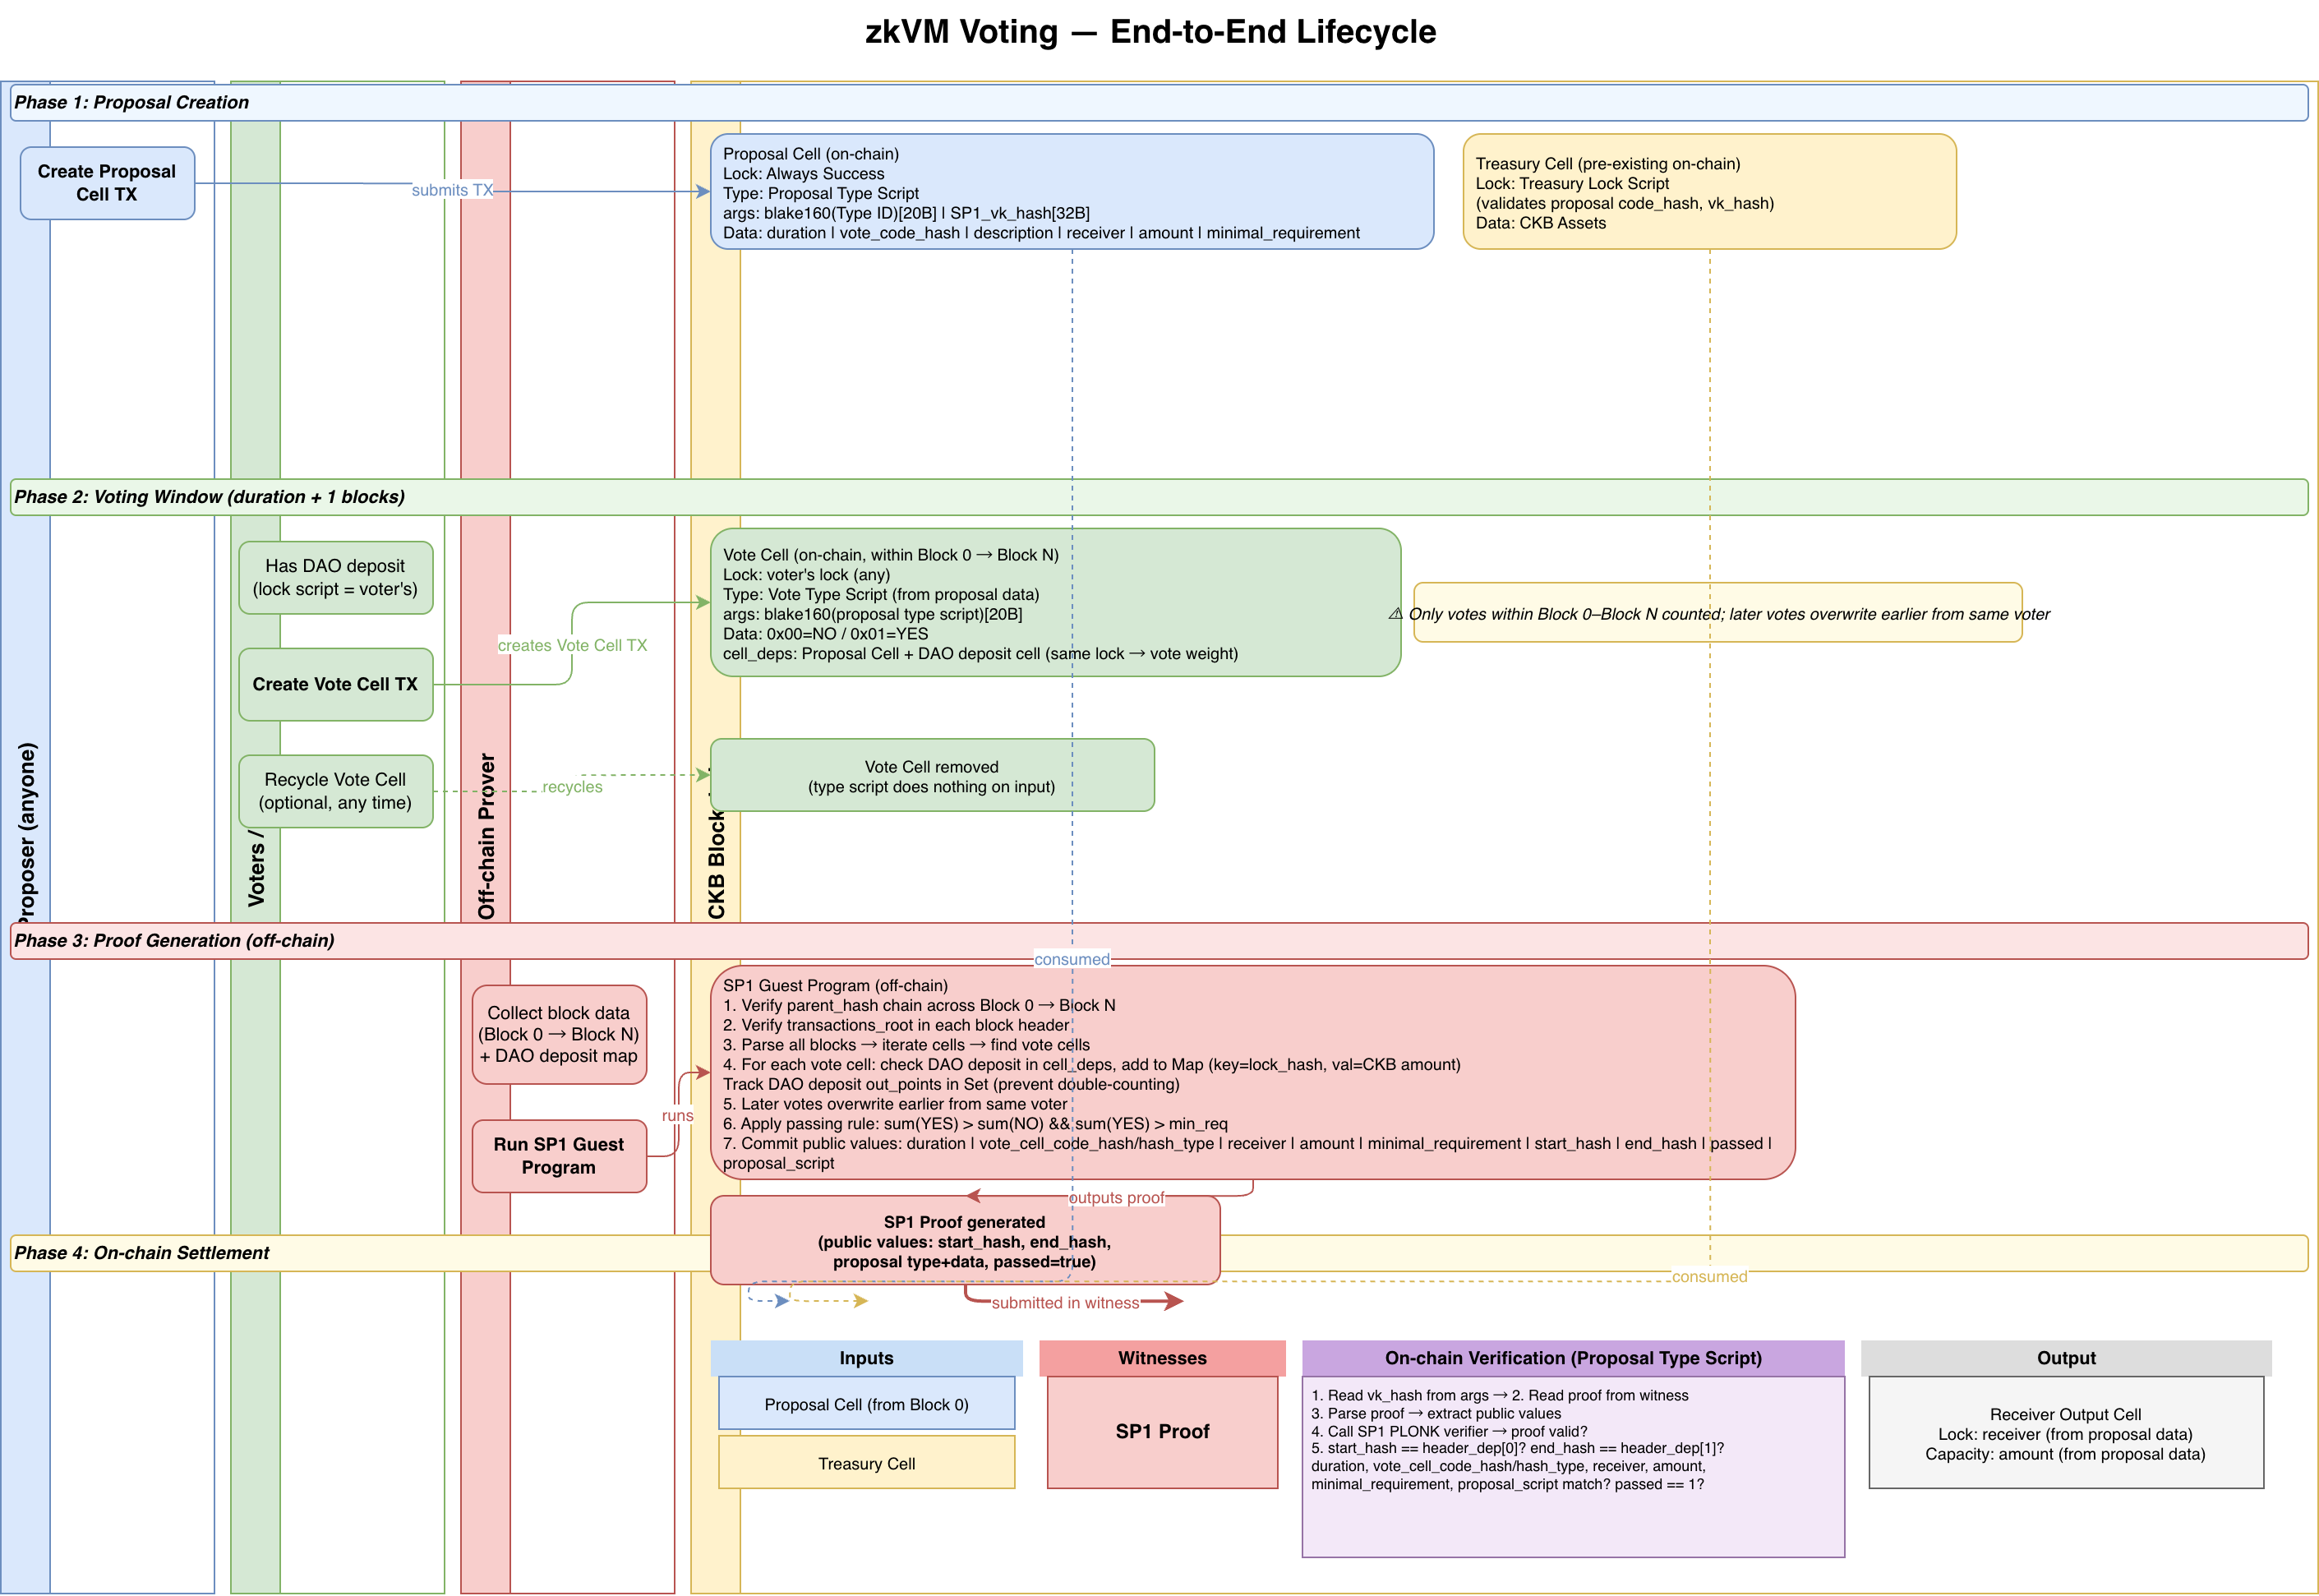
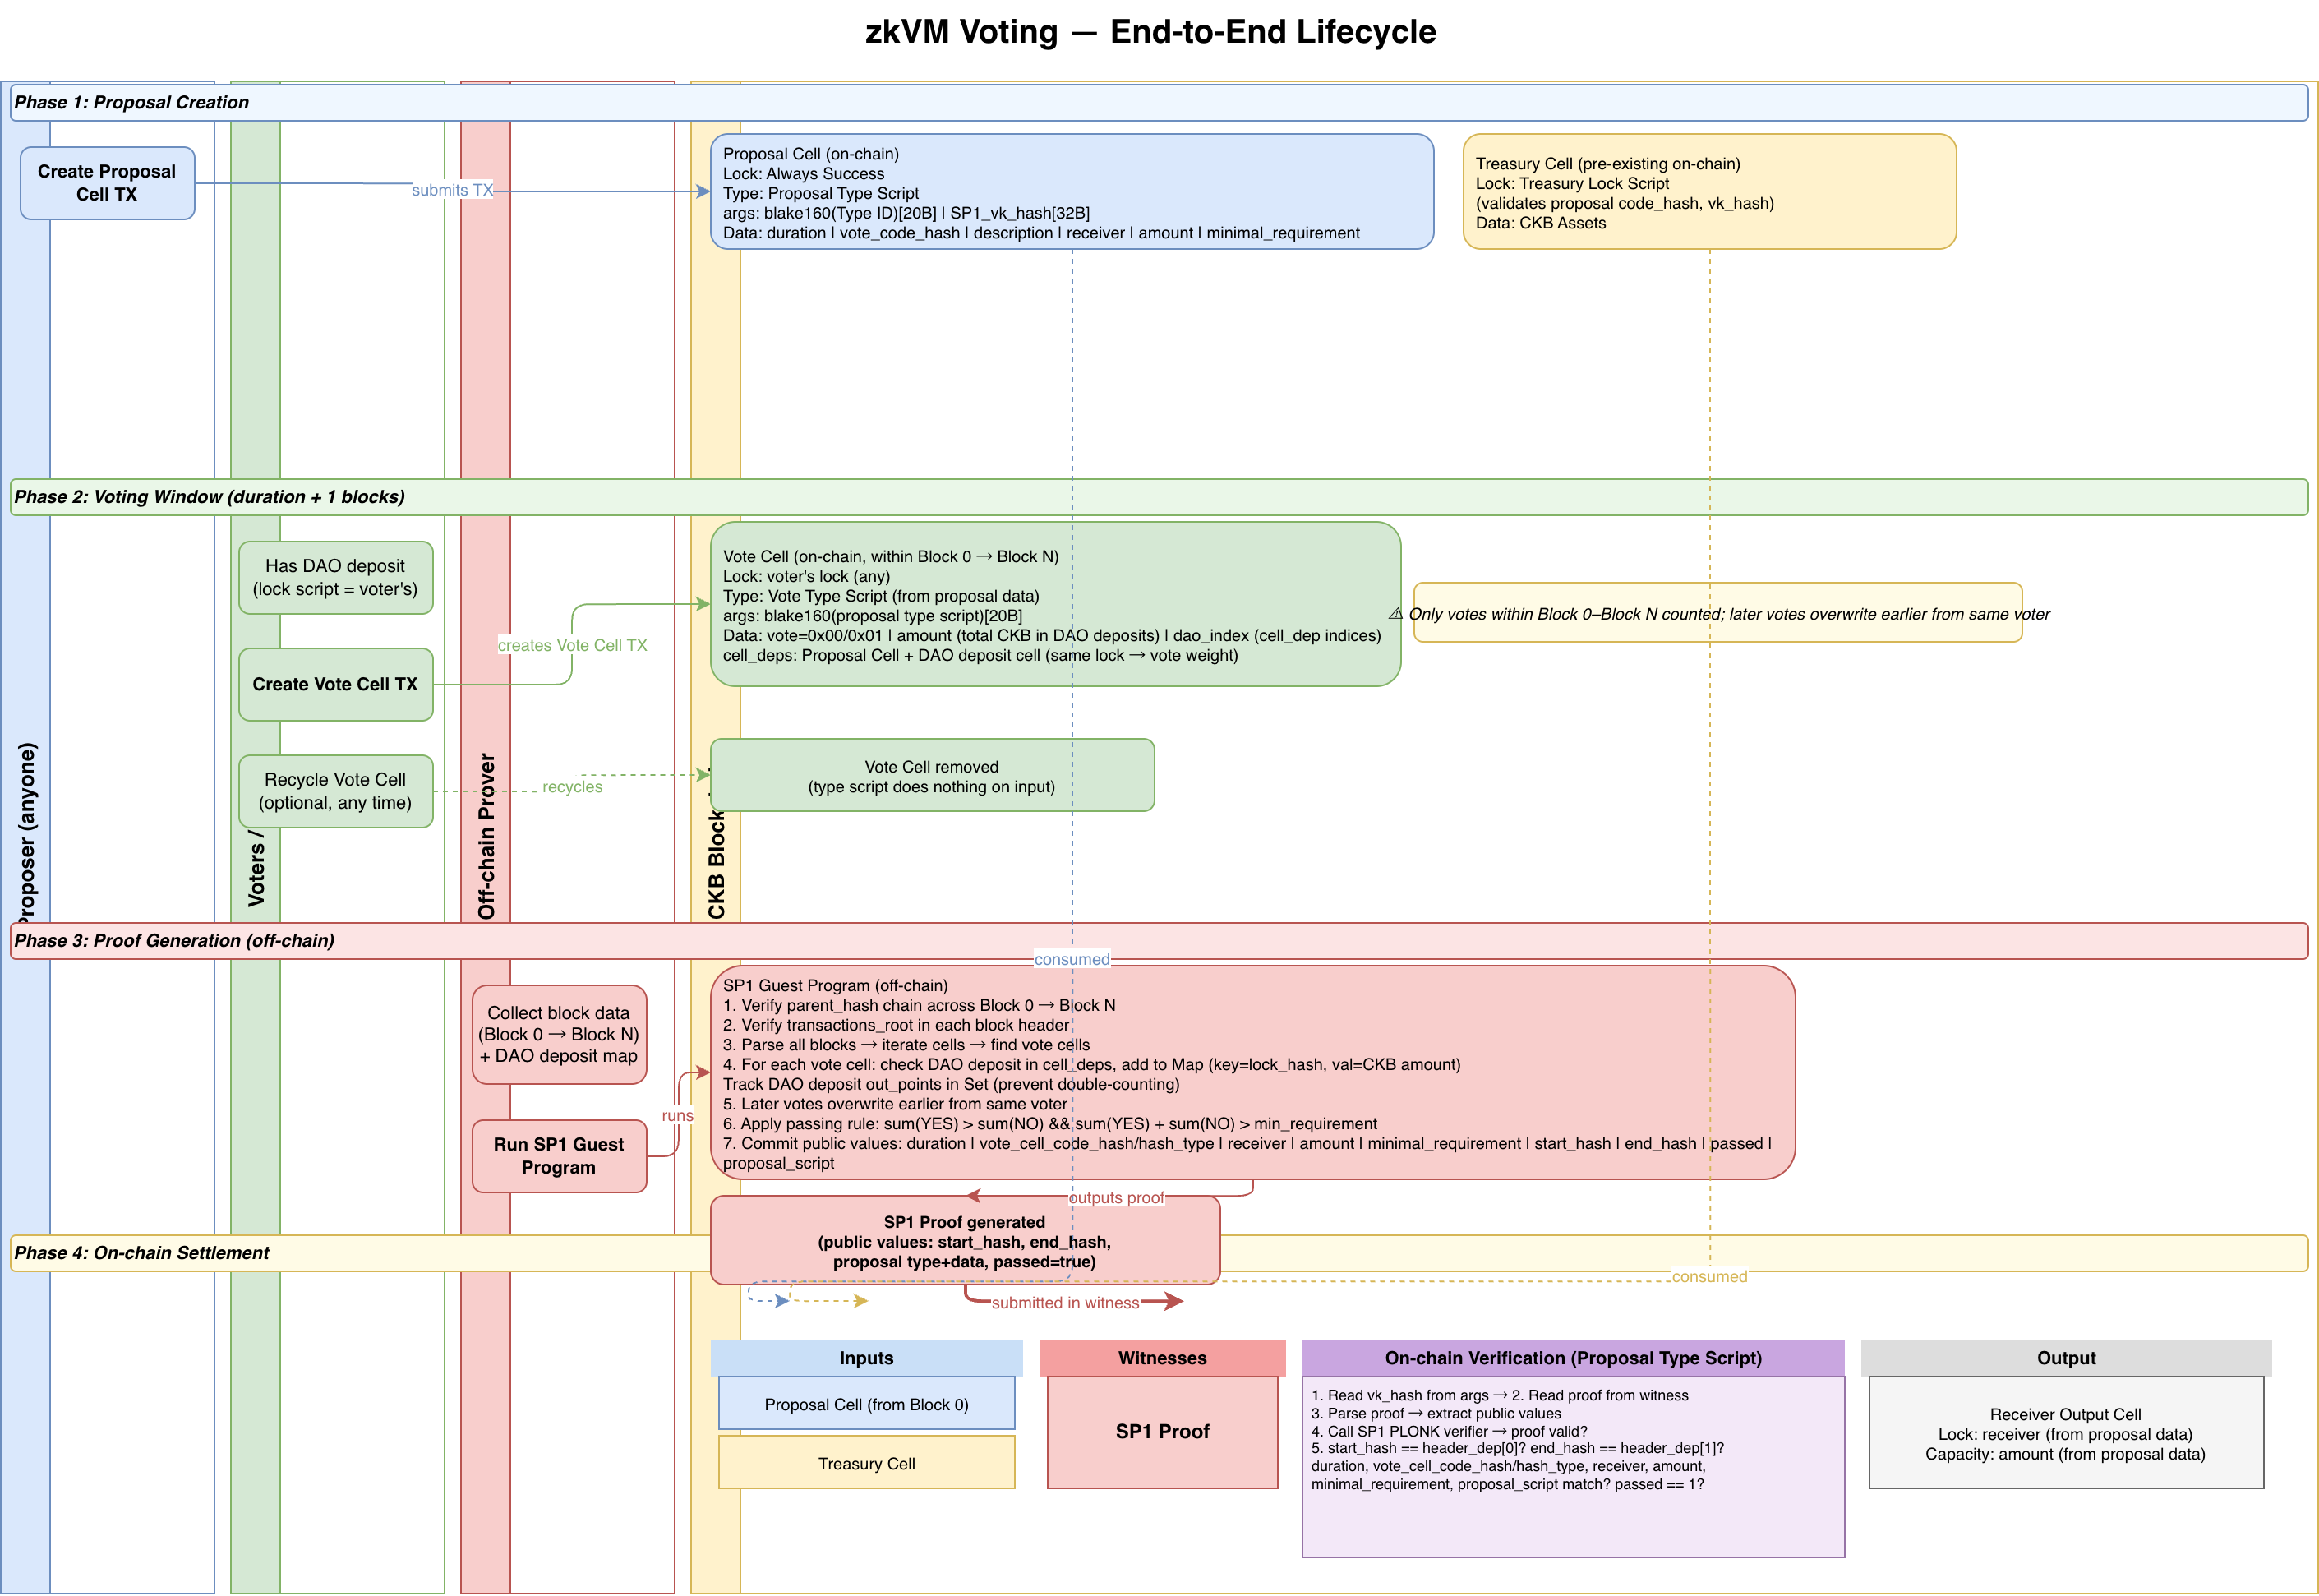
docs: update

Changed region(s): [[0.3118, 0.309, 0.5925, 0.4325], [0.5613, 0.6797, 0.5925, 0.7106], [0.4989, 0.6797, 0.5301, 0.7106]]

diff --git a/docs/design/README.md b/docs/design/README.md
@@ -60,113 +60,29 @@ The type script of a proposal cell is called the proposal type script. Its `args
 <20-byte blake160 hash of previous TX> <32-bytes SP1 verifying key>
 ```
 
-The first 20 bytes ensure uniqueness via the Type ID mechanism (see [Type ID implementation](https://github.com/nervosnetwork/ckb-std/blob/0a16c0ed8a6b4d8194d64420dbe309a0c23fc1b2/src/type_id.rs#L79-L85)).
-The final 32 bytes represent the SP1 verifying key, indicating which SP1 guest program should be used for zkVM proof verification.
-
-It must follow these rules:
-
-* It must be unique across all type scripts. This can be achieved using Type ID.
-* It is referenced by vote cells via its Type ID.
-* It validates the cell data format, described below.
-* If a proposal cell remains on-chain without being destroyed for a long time, it indicates the proposal did not pass. It can be recycled after a specific expiration time.
-* A proposal cell can only be created or destroyed, not updated. 
-* When a proposal cell is destroyed, a zkVM proof must be provided to demonstrate that the vote passed. Only a successful vote permits destruction. The proof is stored in the corresponding witness. This step is described in a separate section (zkVM Verifying Process) and is the most critical part of the design.
-* When the zkVM proof is verified, there must be an output cell with the `amount` and a lock script matching the `receiver`, as described below. This output represents the funds released when the proposal passes.
-
-The proposal cell data format includes the following fields:
-
-1. `duration` (N) in blocks: votes are valid only if cast within N consecutive blocks from the proposal's start. Votes outside this range are not counted. 
-2. `vote cell code_hash / hash_type`: specifies the script a vote cell must use. Cells using a different script are not counted as valid votes.
-3. `description`: a plain-text description of the proposal.
-4. `receiver`: The address that will receive the CKB amount when the proposal passes.
-5. `amount`: The amount of CKB to be received.
-6. `minimal_requirement`: minimum required CKB involved in voting.
-
-Since proposal cells can be created by anyone, the fields `duration`, `vote cell code_hash/hash_type`, `amount`, and `minimal_requirement` should be restricted by the proposal type script.
-
-Other metadata may also be included; only the important fields are listed here.
-
-Design notes and rationale:
-
-* Allowing updates would require revoking old votes, re-voting, and notifying all participants — an impractical workflow. The recommended approach is to abandon the existing proposal and create a new one.
-* Third parties may also utilize this voting system.
+See details in [Proposal Type Script Specification](../proposal-type-script.md).
 
 ## Vote Cell
 
 Once the proposal cell is on-chain, users can cast their votes by creating vote cells. Each vote cell's data contains the vote result — typically a simple yes or no.
 
-The vote cell's lock script can be anything, as users may recycle these cells immediately after voting. In practice, it is recommended to use the same lock script as the input cell.
+The vote cell's lock script can be anything, as users may recycle these cells immediately after voting. 
 
-The vote cell's type script is specified in the proposal cell's data format. This vote type script must follow these rules:
-
-1. The input cell being consumed must be unlocked by a script. This script represents ownership of a DAO deposit.
-2. `cell_deps` must include a reference to the DAO deposit, which must share the same lock script as above. The DAO deposit amount is used as the vote weight.
-3. `args` must contain the blake160 hash of the proposal type script. 
-4. Rules 1–3 apply only when this type script appears in an output cell. When it appears in an input cell, it does nothing — this allows the cell to be recycled.
-
-Design notes and rationale:
-
-1. The type script is not required to validate the proposal cell in full. It only checks that the proposal cell exists. Full validation is handled by the zkVM verifying process.
-2. Vote cells outside the proposal's `duration` range are not counted as valid votes. This is also enforced in the zkVM verifying process.
-3. Vote cells can be recycled immediately, so they do not lock up users' capacity. Users only pay a small amount of CKB as transaction fees.
-4. A "NO" vote is generally unnecessary — users can simply do nothing. However, it can be used to retract a previous "YES" vote, as any "NO" vote overwrites a prior "YES" from the same voter.
-
+See details in [Vote Type Script Specification](../vote-type-script.md).
 
 ## Treasury Cell
 The treasury cell holds assets by default. When a proposal passes, anyone can generate a zkVM proof to unlock the proposal type script.
 The treasury cell is locked by a special treasury lock script, which can be unlocked when the proposal type script in the same transaction is also unlocked.
 The transaction includes treasury cells and a proposal cell, with an output cell using the `receiver` as the lock script — effectively sending funds to the receiver.
 
-The treasury lock script follows these rules:
+The treasury lock script has the following hard-coded or configured parameters:
 
-1. The proposal cell in the same transaction must have a valid `code_hash` / `hash_type`.
-2. The `args` of the proposal cell must be valid:
-   - The verifying key matches.
-   This setting is critical to the voting system. The verifying key defines the shape of the guest program — it must be updated whenever the guest program changes. Allowing this setting to be malformed or overwritten by anyone would be a serious security issue.
+- proposal type script `code_hash` / `hash_type`
+- verifying key of the guest program
 
+These parameters are critical to the voting system. The verifying key is tied to the guest program binary — it must be updated whenever the guest program changes. Allowing these values to be malformed or overwritten would be a serious security issue.
 
-Design notes and rationale:
-
-1. The verifying key can be updated when the guest program changes.
-
-
-## zkVM Verifying Process
-
-This is the most critical part of the design. It consists of two sides: off-chain and on-chain.
-The off-chain side generates the SP1 proof using block data as input. The on-chain side verifies the proof against the real block data.
-
-On the off-chain side, the guest program works as follows:
-
-- The guest program receives, as input arguments, a sequence of block data beginning with the block containing the proposal cell. This sequence consists of exactly `duration + 1` consecutive blocks.
-- It also receives a collection of relevant transactions associated with valid DAO deposits, organized in a map structure, as additional input arguments.
-- The guest program takes last argument as the proposal type script along with its corresponding cell data.
-- It reads the proposal cell from the first block and retrieves the vote cell type script.
-- It verifies that `parent_hash` matches between adjacent blocks.
-- It verifies that the `transactions_root` field in each block matches the expected value according to the [block structure RFC](https://github.com/nervosnetwork/rfcs/blob/master/rfcs/0027-block-structure/0027-block-structure.md). Additional verification steps can be included as needed, but are not detailed here.
-- It parses all blocks in molecule format, reads all transactions, and iterates over all cells.
-- If a cell matches the vote cell type script, it verifies that the corresponding `cell_deps` contain a DAO deposit with the correct lock script. If valid, the vote is counted and stored in a `Map`. Later votes overwrite earlier ones from the same voter.
-- After the final block is processed, a `Map` of voting results is produced. The key is the lock script hash identifying each voter, and the value is the amount of CKB they hold.
-- The passing rule is not yet finalized, but a simple example would be: `sum("YES") > sum("NO") && sum("YES") + sum("NO") > minimal_requirement`.
-- Finally, the guest program commits the following public values and outputs the SP1 proof:
-    * Start block hash
-    * End block hash
-    * Proposal type script and its cell data
-    * Whether the proposal passed
-  These public values are crucial, as the on-chain verifier must independently validate each of them to ensure the integrity of the zkVM proof.
-
-On the on-chain side, the proposal type script verifies the SP1 zkVM proof as follows:
-
-1. Read the `<32-byte SP1 verifying key>` from `args`.
-2. Read the `proof` from the witness.
-3. Parse the `proof` to extract the public values.
-4. Call the SP1 verifier with the arguments above and verify the proof.
-5. Verify that the public values match the on-chain data:
-   - The start block hash must match the first `header_dep`.
-   - The end block hash must match the second `header_dep`.
-   - The proposal type script and its cell data must match.
-   - The proposal passing flag must match.
-
-Note: the start and end block hashes are referenced via `header_dep`. If either hash is invalid, the reference will fail and the transaction cannot be constructed.
+See details in [Treasure Lock Script Specification](../treasure-lock-script.md).
 
 ## Benchmark and Optimization
 

diff --git a/docs/vote-type-script.md b/docs/vote-type-script.md
@@ -13,19 +13,36 @@ Since a proposal type script is unique across the entire chain, there is no ambi
 
 
 ## Cell Data
-One byte data: 0 for "NO" and 1 for "YES".
+
+The cell data uses the following molecule structure:
+```
+table Vote {
+    vote: Byte,
+    amount: Uint64,
+    dao_index: Uint16Vec,
+}
+```
+The `vote` field is a single byte: `0` for "NO" and `1` for "YES".
+The `amount` is the total CKB the owner holds in DAO deposits. The `dao_index` contains the indices into `cell_deps` that point to those DAO deposit cells.
+
 
 ## Witness
 This script doesn't read witness.
 
 ## Unlocking process
 
-When a vote cell is created, the action is treated as casting a vote. The script first checks that a proposal cell — identified by the blake160 hash stored in `args` — exists in `cell_deps`. It is not required to validate the proposal cell in full; it only checks that the proposal cell exists. The script then looks for a lock script on the input cells that matches the corresponding output lock script; this lock script represents ownership of the DAO. The script then traverses all `cell_deps` to find cells meeting both of the following conditions:
+1. When a vote cell is created, the action is treated as casting a vote. The script first checks that a proposal cell — identified by the blake160 hash stored in `args` — exists in `cell_deps`. Full validation of the proposal cell is not required; it only needs to confirm its presence.
 
-1. Its lock script matches the DAO owner.
-2. Its type script is the Nervos DAO, as described [here](https://github.com/nervosnetwork/rfcs/blob/master/rfcs/0024-ckb-genesis-script-list/0024-ckb-genesis-script-list.md#nervos-dao).
+2. The script then looks for a lock script on the input cells that matches the corresponding output lock script. This lock script represents ownership of the DAO.
 
-If no such `cell_dep` exists, the script fails. Tallying the total CKB voted is the guest program's responsibility — the vote type script does not perform this count.
+3. The script traverses all `cell_deps` to find cells that satisfy all of the following conditions:
+
+- Its lock script matches the DAO owner.
+- Its type script is the Nervos DAO, as described [here](https://github.com/nervosnetwork/rfcs/blob/master/rfcs/0024-ckb-genesis-script-list/0024-ckb-genesis-script-list.md#nervos-dao).
+- Its index appears in `dao_index` from the cell data.
+- The sum of CKB across all matching DAO deposits equals the `amount` in the cell data.
+
+If no such `cell_dep` exists, the script fails.
 
 
 When a vote cell is consumed, there is no special meaning — it simply recycles the occupied CKB. The cell can be consumed at any time and does not need to wait until voting ends.
@@ -70,7 +87,10 @@ Inputs:
 
 Outputs:
     Vote_Cell
-        Data: 0x01                                      # 1 = YES
+        Data: <molecule-encoded Vote>
+            vote: 0x01                                  # 1 = YES
+            amount: <voter's total DAO balance in shannons>
+            dao_index: [1]                              # index 1 in cell_deps (DAO_Deposit_Cell)
         Type:
             code_hash: <vote type script code hash>
             hash_type: <vote type script hash type>
@@ -99,7 +119,10 @@ Witnesses:
 ```yaml
 Inputs:
     Vote_Cell                                           # the previously cast vote
-        Data: 0x01                                      # 1 = YES (original vote content)
+        Data: <molecule-encoded Vote>
+            vote: 0x01                                  # 1 = YES (original vote content)
+            amount: <voter's total DAO balance in shannons>
+            dao_index: [1]
         Type:
             code_hash: <vote type script code hash>
             hash_type: <vote type script hash type>

diff --git a/docs/proposal-type-script.md b/docs/proposal-type-script.md
@@ -115,10 +115,12 @@ The verifying key in `args` is a hash of the guest program. The guest program pe
 - It verifies that `parent_hash` matches between adjacent blocks.
 - It verifies that the `transactions_root` field in each block matches the expected value according to the [block structure RFC](https://github.com/nervosnetwork/rfcs/blob/master/rfcs/0027-block-structure/0027-block-structure.md). Additional verification steps can be included as needed, but are not detailed here.
 - It parses all blocks in molecule format, reads all transactions, and iterates over all cells.
-- If a cell matches the vote cell type script, it verifies that the corresponding `cell_deps` contain a DAO deposit with the correct lock script. If valid, the vote is counted and stored in a `Map`. Later votes from the same voter overwrite earlier ones, which can be used to retract an existing vote.
-- Each DAO deposit out point is added to a `Set`. Subsequent input transactions may not reference any out point already in this `Set`, preventing double-counting of DAO deposits.
+
+- If a cell matches the vote type script, the verifier checks that its cell data contains a valid `table Vote` (see [Vote Type Script Specification](./vote-type-script.md#cell-data)). The `Vote.amount` field is recorded in a `Map` keyed by the voter's lock script hash. A later vote from the same voter overwrites the earlier one, effectively allowing vote retraction.
+- Each `table Vote` carries a `dao_index`. The corresponding DAO deposit out point from `cell_deps` is added to a `Set`. If a subsequent transaction references an out point already in this `Set`, it indicates the same CKB will be counted twice; all related votes in the `Map` are then removed, preventing double-counting of DAO deposits.
+
 - After the final block is processed, the voting results are aggregated into a `Map`. The key is the lock script hash identifying each voter, and the value is the total CKB amount they hold.
-- The passing rule is not yet finalized, but a simple example would be: `sum("YES") > sum("NO") && sum("YES") > minimal_requirement`.
+- The passing rule is not yet finalized, but a simple example would be: `sum("YES") > sum("NO") && sum("YES") + sum("NO") > minimal_requirement`.
 - Finally, the guest program commits the public values(See `table PublicValues`) and outputs the SP1 proof. These public values are crucial, as the on-chain verifier(see above) must independently validate each of them to ensure the integrity of the zkVM proof.
 
 ## Other Notes

diff --git a/AGENTS.md b/AGENTS.md
@@ -18,6 +18,10 @@ The SP1 guest program (`program`) depends on `crates/verification` and `crates/t
 - **SP1 Guest Program**: The `sp1/ckb-vote-verification/program` is compiled targeting RISC-V for the zkVM, using a custom toolchain provided by SP1. Do not mix this environment or its build artifacts with other Rust projects.
 - `cargo fmt` uses edition 2024 formatting in both workspaces
 
+## Documents
+
+The design document is at `docs/design/README.md`. The `docs/*.md` files contain specifications.
+
 ## Code generation
 
 `crates/types/build.rs` generates Rust code from `.mol` schema files (in `crates/types/molecules/`) using `molecule-codegen`. The generated code lives in `crates/types/src/molecules/`.

diff --git a/docs/spec.md b/docs/spec.md
@@ -7,5 +7,3 @@ Based on the [draft design document](./design/README.md), there are three script
 - [Treasure lock script](./treasure-lock-script.md)
 
 **In case of any conflict with the draft design document, these specifications take precedence.**
-
-![zkVM Voting System](./design/zkvm-voting.png)